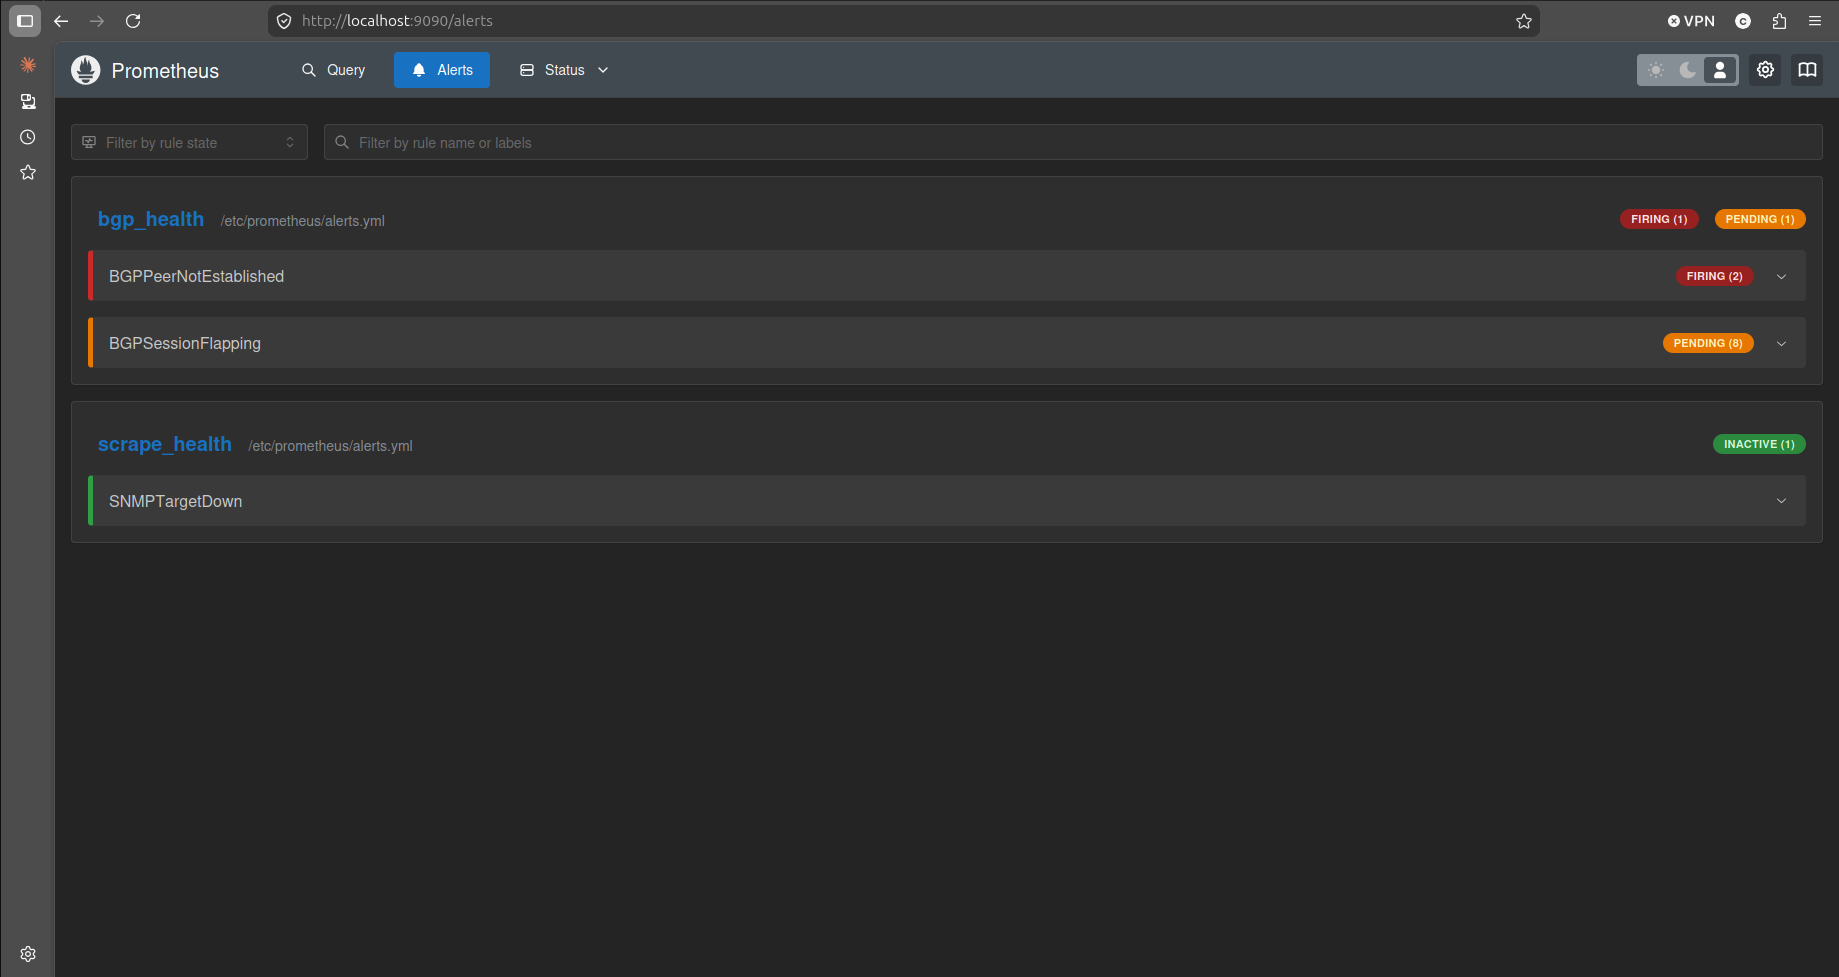
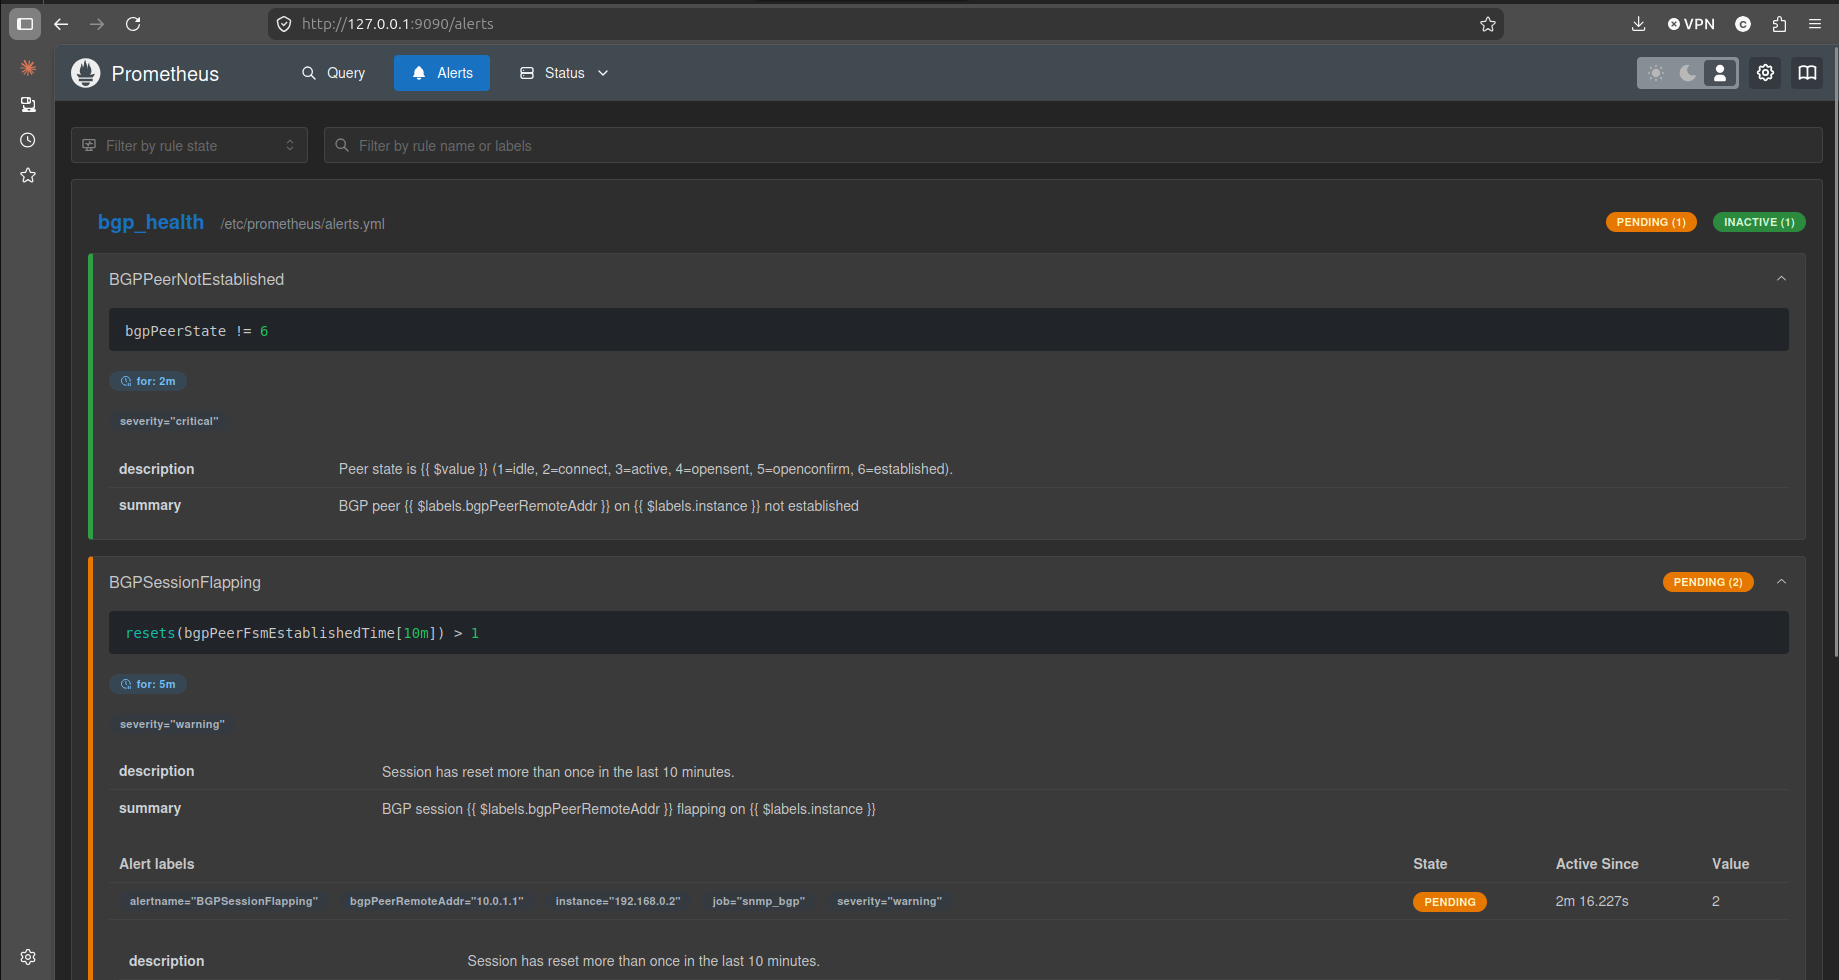
Switch BGPSessionFlapping from changes() to resets(), update README

diff --git a/bgp-grafana-monitoring/README.md b/bgp-grafana-monitoring/README.md
@@ -134,11 +134,11 @@ Three rules in `monitoring/prometheus/alerts.yml`, loaded by Prometheus on start
 
 `BGPPeerNotEstablished` fires per peer when `bgpPeerState != 6` for two minutes. If three of the eight peerings break, three alerts fire — one per session, not one rolled-up "ring is unhealthy." Severity critical.
 
-`BGPSessionFlapping` watches `changes(bgpPeerFsmEstablishedTime[10m]) > 1` over a five-minute pending window. The rule fires on sessions that won't stay up. Worth knowing: the 10-minute window is rolling, so a session that recovers from a flap stays in the alert state for roughly fifteen minutes before going quiet. That's the rule working as intended, not a bug. Severity warning.
+`BGPSessionFlapping` fires when `resets(bgpPeerFsmEstablishedTime[10m]) > 1` for five minutes. `resets()` counts how many times the timer has gone backward in the rolling window, which is exactly what a BGP session reset looks like — the timer drops to zero and starts climbing again. A single bounce won't trip the alert; the threshold is `>1`, so the rule waits for at least two resets within ten minutes before firing. Severity warning.
 
 `SNMPTargetDown` fires on `up{job=~"snmp_routers|snmp_bgp"} == 0` for two minutes. This is the one that catches "Prometheus can't reach the exporter" or "the exporter can't reach the router." Severity warning.
 
-Below, the alerts page after I shut R2's neighbor toward R1. `BGPPeerNotEstablished` is firing in both directions, `BGPSessionFlapping` is pending, `SNMPTargetDown` stayed green because the routers themselves were still reachable:
+I originally wrote this rule using `changes()` instead of `resets()`. That was wrong. `changes()` counts any change in the metric value, including the steady tick of a healthy timer climbing once per scrape. The rule fired continuously against perfectly stable sessions. Caught it after two days of running the lab and noticing the alert had been firing the whole time. The fix was a one-word change but the lesson was bigger: counter-vs-gauge semantics in Prometheus matter, and `resets()` is the right tool when you care specifically about a counter going backward.
 
 ![Prometheus alerts page showing BGPPeerNotEstablished firing, BGPSessionFlapping pending, and SNMPTargetDown inactive after a BGP neighbor was shut on R2](images/prometheus-alert-firing.png)
 